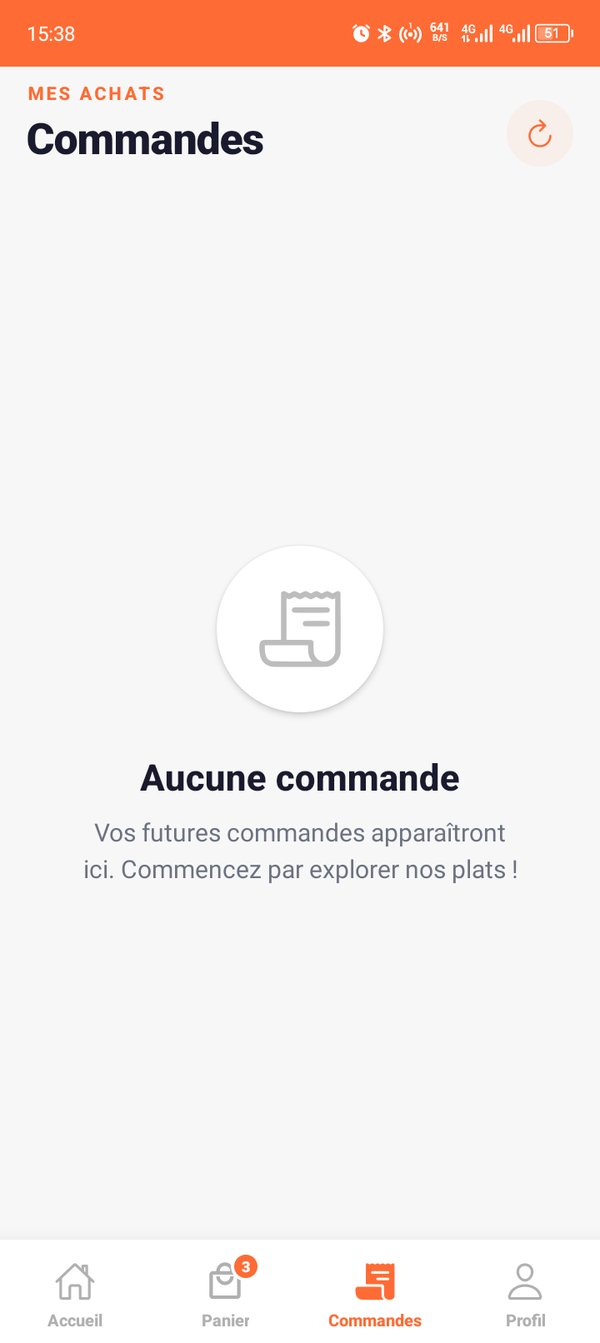
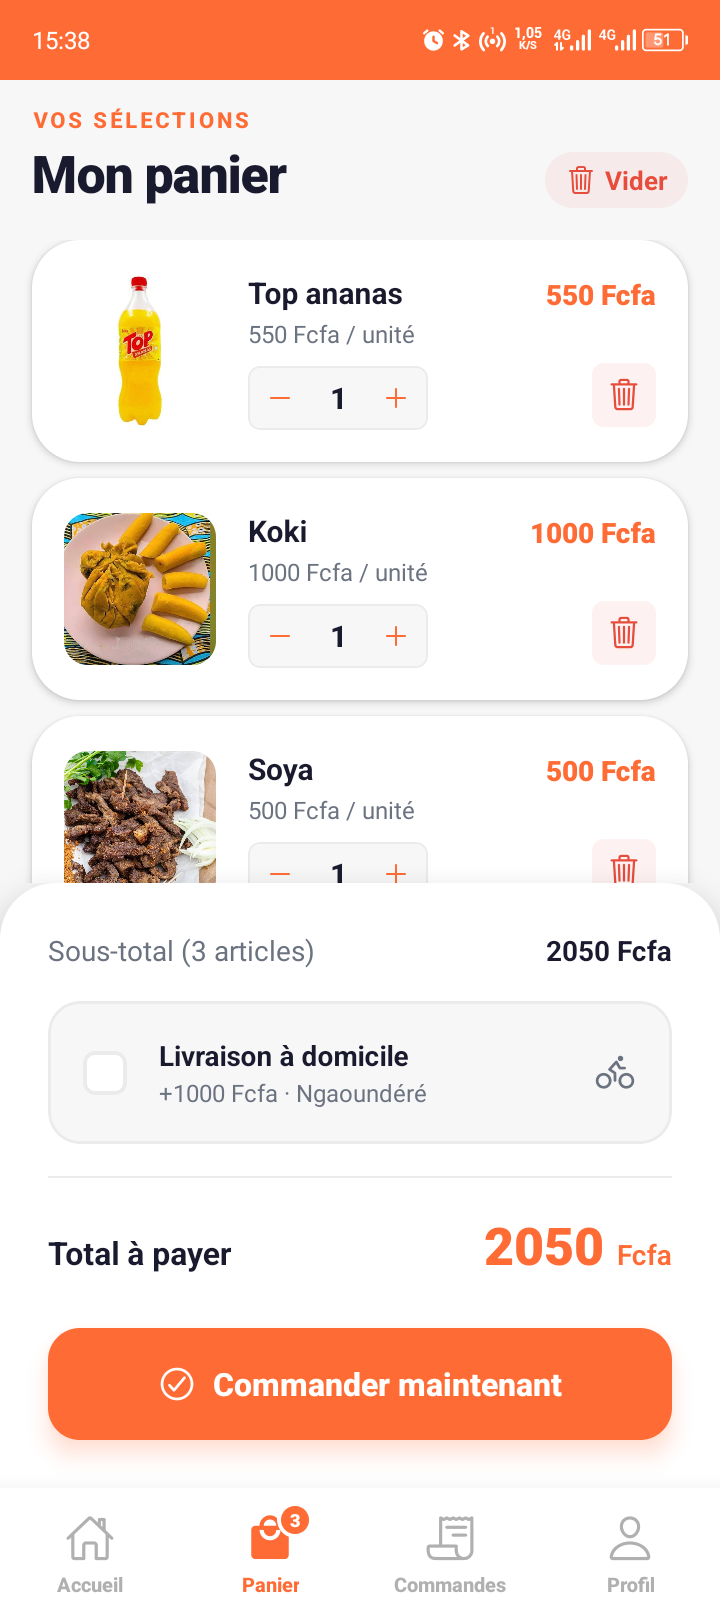
app vitrine okay

diff --git a/index.html b/index.html
@@ -3,13 +3,112 @@
 <head>
 <meta charset="UTF-8">
 <meta name="viewport" content="width=device-width, initial-scale=1.0">
-<title>LaTchop</title>
-<meta name="description" content="LaTchop, l'app qui livre les meilleurs plats locaux de Ngaoundéré, chauds et rapides. Téléchargez l'application.">
+
+<title>LaTchop – Livraison de plats locaux faits maison à Ngaoundéré</title>
+<meta name="description" content="LaTchop, l'app qui livre les meilleurs plats locaux de Ngaoundéré, chauds et rapides. Koki, Eru, Ndolé, Poulet DG... Commandez en 2 minutes, livraison à domicile ou retrait sur place. Téléchargez l'application.">
+<meta name="keywords" content="LaTchop, livraison Ngaoundéré, plats locaux Cameroun, Koki, Eru, Ndolé, Poulet DG, application livraison repas, restauration Ngaoundéré, maquis en ligne, Adamaoua">
+<meta name="author" content="LaTchop">
+<meta name="robots" content="index, follow, max-image-preview:large, max-snippet:-1, max-video-preview:-1">
+<link rel="canonical" href="https://latchop.onrender.com/">
+
+<!-- Open Graph / Facebook, WhatsApp, LinkedIn -->
+<meta property="og:type" content="website">
+<meta property="og:url" content="https://latchop.onrender.com/">
+<meta property="og:site_name" content="LaTchop">
+<meta property="og:locale" content="fr_FR">
+<meta property="og:title" content="LaTchop – Le vrai goût, livré chaud à Ngaoundéré">
+<meta property="og:description" content="Koki, Eru, Poulet DG, Ndolé... commandez les meilleurs plats faits maison à Ngaoundéré et recevez-les brûlants, en quelques minutes.">
+<meta property="og:image" content="https://latchop.onrender.com/assets/hero-mockup.jpg">
+<meta property="og:image:alt" content="Application LaTchop affichée sur un smartphone, montrant l'écran d'accueil avec les plats du jour à Ngaoundéré">
+
+<!-- Twitter / X Card -->
+<meta name="twitter:card" content="summary_large_image">
+<meta name="twitter:title" content="LaTchop – Le vrai goût, livré chaud à Ngaoundéré">
+<meta name="twitter:description" content="Koki, Eru, Poulet DG, Ndolé... commandez les meilleurs plats faits maison à Ngaoundéré et recevez-les brûlants, en quelques minutes.">
+<meta name="twitter:image" content="https://latchop.onrender.com/assets/hero-mockup.jpg">
+
+<!-- Géolocalisation / pertinence locale -->
+<meta name="geo.region" content="CM-AD">
+<meta name="geo.placename" content="Ngaoundéré">
+
+<!-- Indication explicite pour les crawlers d'IA / agents de recherche IA :
+     décrit la nature de l'app en langage clair, en plus des données
+     structurées JSON-LD ci-dessous, pour faciliter la compréhension et
+     la citation par les assistants IA (résumés, recommandations locales). -->
+<meta name="ai-content-declaration" content="Site vitrine officiel de l'application mobile LaTchop, service de commande et livraison de plats locaux faits maison à Ngaoundéré, Cameroun.">
+
 <link rel="icon" href="assets/icon.png">
+<link rel="apple-touch-icon" href="assets/icon.png">
 <link rel="preconnect" href="https://fonts.googleapis.com">
 <link rel="preconnect" href="https://fonts.gstatic.com" crossorigin>
 <link href="https://fonts.googleapis.com/css2?family=Fredoka:wght@500;600;700&family=Inter:wght@400;500;600;700;800&family=Caveat:wght@600;700&display=swap" rel="stylesheet">
-<link rel="stylesheet" href="styles.css">
+<link rel="stylesheet" type="text/css" href="styles.css">
+
+<!-- Données structurées schema.org : aide les moteurs de recherche ET les
+     IA (résumés, réponses conversationnelles) à comprendre précisément
+     ce qu'est LaTchop, où elle opère, et comment l'obtenir. -->
+<script type="application/ld+json">
+{
+  "@context": "https://schema.org",
+  "@type": "MobileApplication",
+  "name": "LaTchop",
+  "operatingSystem": "Android",
+  "applicationCategory": "FoodApplication",
+  "description": "LaTchop est une application de commande et livraison de plats locaux faits maison à Ngaoundéré, au Cameroun. Menu du jour, panier intelligent, suivi de commande en temps réel, livraison à domicile ou retrait sur place.",
+  "url": "https://latchop.onrender.com/",
+  "downloadUrl": "https://github.com/Yokomi-YBJ/latchop-site/releases/download/v1.0-beta/latchop-beta.apk",
+  "offers": {
+    "@type": "Offer",
+    "price": "0",
+    "priceCurrency": "XAF"
+  },
+  "areaServed": {
+    "@type": "City",
+    "name": "Ngaoundéré",
+    "containedInPlace": {
+      "@type": "AdministrativeArea",
+      "name": "Adamaoua, Cameroun"
+    }
+  },
+  "author": {
+    "@type": "Organization",
+    "name": "LaTchop"
+  }
+}
+</script>
+
+<script type="application/ld+json">
+{
+  "@context": "https://schema.org",
+  "@type": "FAQPage",
+  "mainEntity": [
+    {
+      "@type": "Question",
+      "name": "Comment fonctionne LaTchop ?",
+      "acceptedAnswer": {
+        "@type": "Answer",
+        "text": "Créez votre compte avec votre nom, quartier et numéro de téléphone en moins de deux minutes. Choisissez ensuite vos plats et boissons du jour dans le menu, ajustez les quantités, puis validez votre commande. Vous recevez votre repas livré à domicile ou le récupérez sur place à Ngaoundéré, avec un suivi en temps réel."
+      }
+    },
+    {
+      "@type": "Question",
+      "name": "Dans quelle ville LaTchop livre-t-il ?",
+      "acceptedAnswer": {
+        "@type": "Answer",
+        "text": "LaTchop livre actuellement à Ngaoundéré, dans la région de l'Adamaoua au Cameroun."
+      }
+    },
+    {
+      "@type": "Question",
+      "name": "Comment télécharger l'application LaTchop ?",
+      "acceptedAnswer": {
+        "@type": "Answer",
+        "text": "L'application n'est pas encore disponible sur les stores officiels. Elle se télécharge directement en APK depuis le site officiel LaTchop, en version bêta ouverte pour Android."
+      }
+    }
+  ]
+}
+</script>
 </head>
 <body>
 
@@ -263,7 +362,7 @@
     </div>
     <div class="footer-bottom">
       <span>© 2026 LaTchop. Tous droits réservés.</span>
-      <a href="#" style="display:inline-flex; align-items:center; gap:7px; color:rgba(255,248,240,0.4); transition:color .2s;" onmouseover="this.style.color='var(--orange)'" onmouseout="this.style.color='rgba(255,248,240,0.4)'">
+      <a href="https://yokomi-potofolio.onrender.com/" style="display:inline-flex; align-items:center; gap:7px; color:rgba(255,248,240,0.4); transition:color .2s;" onmouseover="this.style.color='var(--orange)'" onmouseout="this.style.color='rgba(255,248,240,0.4)'">
         <svg width="15" height="15" viewBox="0 0 24 24" fill="none" stroke="currentColor" stroke-width="2" stroke-linecap="round" stroke-linejoin="round"><path d="M20 16V7a2 2 0 00-2-2H6a2 2 0 00-2 2v9m16 0H4m16 0l1.28 2.55a1 1 0 01-.9 1.45H3.62a1 1 0 01-.9-1.45L4 16"/><path d="M9 10h.01M12 10h.01M15 10h.01"/></svg>
         Réalisé par : YBJ
       </a>

diff --git a/styles.css b/styles.css
@@ -1,3 +1,4 @@
+
 /* ============ TOKENS ============ */
 :root{
   --orange: #FF6B1A;
@@ -629,8 +630,11 @@ footer{
   .showcase-row, .showcase-row.reverse{ grid-template-columns:1fr; text-align:center; }
   .showcase-row .showcase-visual, .showcase-row.reverse .showcase-visual{ order:1; }
   .showcase-row .showcase-text, .showcase-row.reverse .showcase-text{ order:2; }
-  .feature-list{ align-items:center; }
+  
+  /* C'est ICI que l'alignement des puces a été corrigé pour les écrans mobiles */
+  .feature-list{ width: fit-content; margin: 0 auto; align-items: flex-start; }
   .feature-list li{ text-align:left; }
+  
   .stats-grid{ grid-template-columns:repeat(2,1fr); gap:36px; }
   .footer-top{ flex-direction:column; }
   .footer-cols{ gap:40px; }